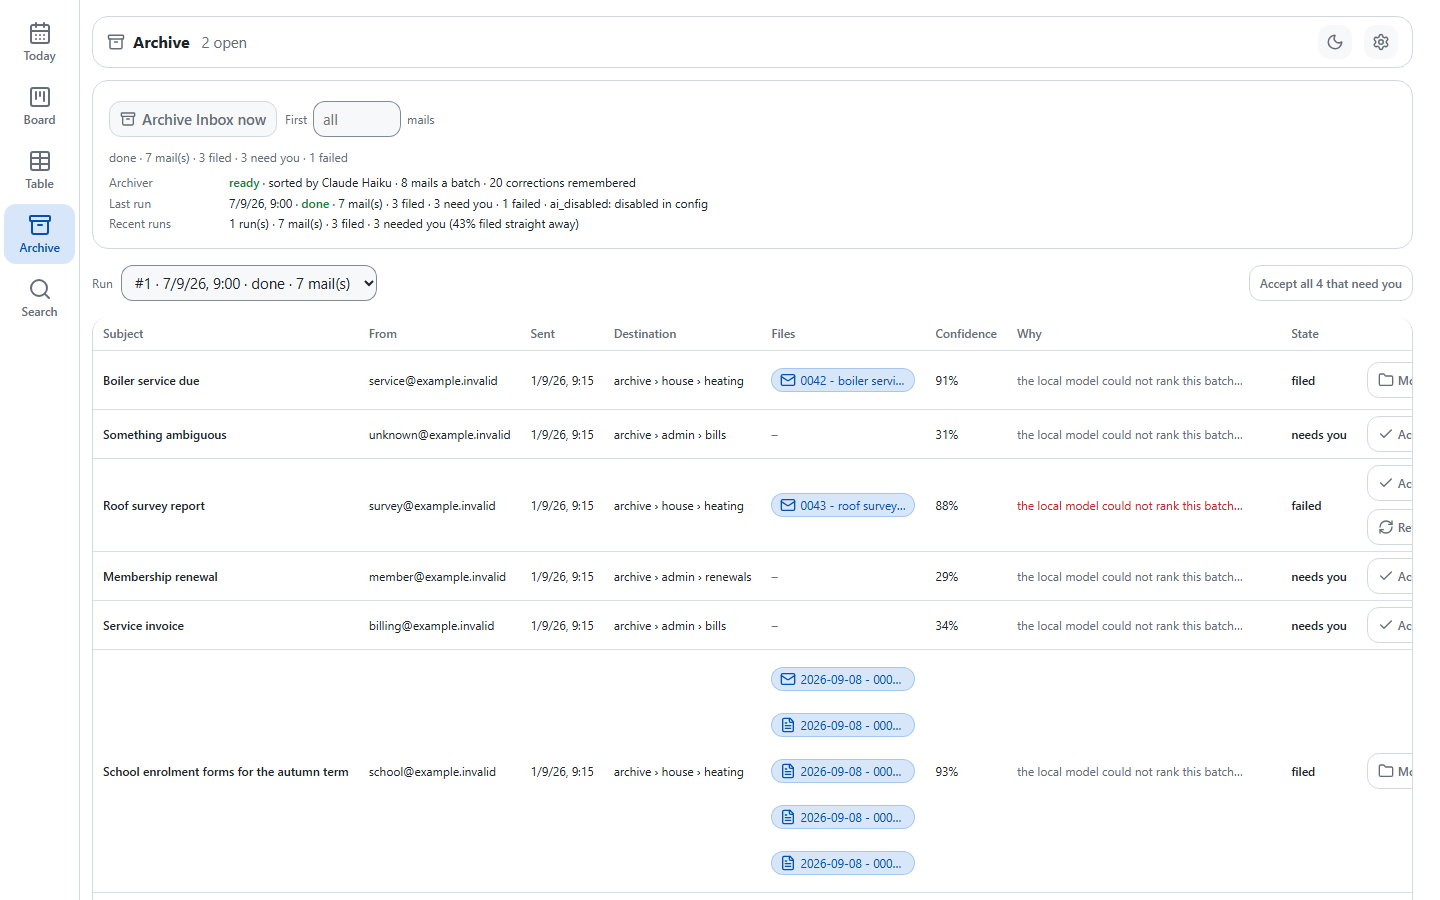
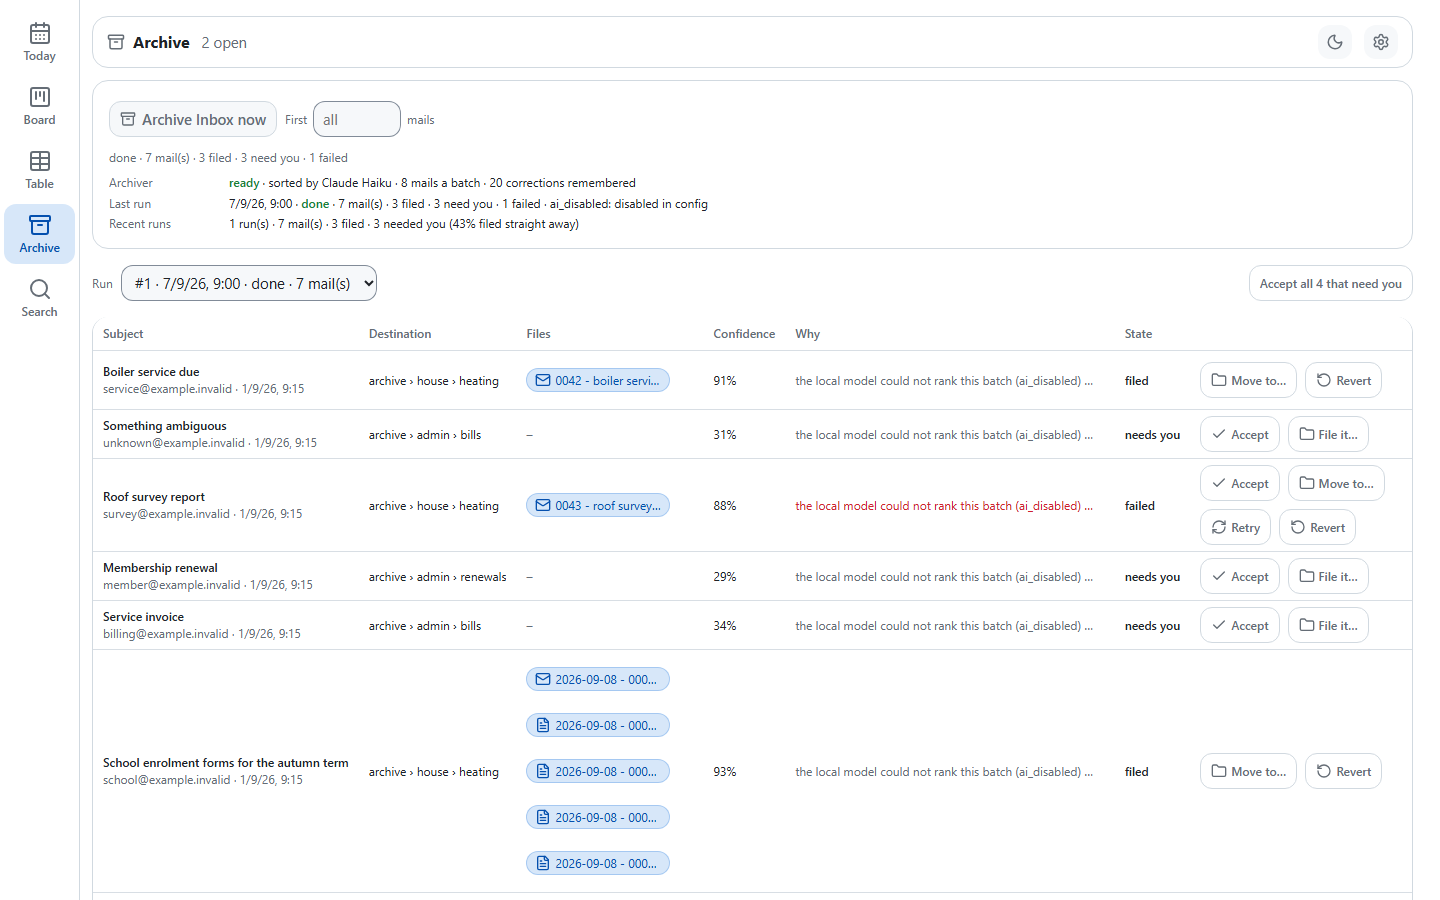
fix: fit the Archive grid to the window, its actions on screen (#339) (#348)
- nine columns ran 1480px into a 1319px scroller at 1440, so every
  row's labelled actions sat past the right edge and only their glyphs
  showed (live J-01 / J-05: icon-only, clipped row actions)
- who sent the mail and when now ride under the subject as one muted
  line, the phone card's two lines in one cell; two columns fewer and
  the grid fits
- story 24 asserts the grid does not scroll sideways at 1440 (red
  before: 1480 vs 1319)

Claude-Session: https://claude.ai/code/session_0172Apg4F9VSBxsAwLVqm2RB

diff --git a/app/webapp/static/archive.js b/app/webapp/static/archive.js
@@ -689,7 +689,9 @@ export function mountArchive(opts) {
   }
 
   // -------------------------------------------------------- the two drawings
-  const COLUMNS = ['Subject', 'From', 'Sent', 'Destination', 'Files', 'Confidence', 'Why', 'State', ''];
+  // Who sent it and when ride under the subject (#339): two columns fewer is
+  // what lets the grid fit the window, the row's actions on screen.
+  const COLUMNS = ['Subject', 'Destination', 'Files', 'Confidence', 'Why', 'State', ''];
 
   function renderTable(items) {
     const wrap = document.createElement('div');
@@ -726,9 +728,7 @@ export function mountArchive(opts) {
         onToggle: function (open) { panelRow.hidden = !open; },
       });
       tr.append(
-        cell('c-subject', subjectEl(item)),
-        cell('c-sender', textEl(item.sender || '–')),
-        cell('c-sent', textEl(item.sent_at ? fmtTsShort(item.sent_at) : '–')),
+        cell('c-subject', subjectCellEl(item)),
         cell('c-dest', destinationEl(item)),
         cell('c-files', filesEl(item, { cap: true })),
         cell('c-conf', confidenceEl(item)),
@@ -757,12 +757,17 @@ export function mountArchive(opts) {
     return td;
   }
 
-  function textEl(text) {
-    const s = document.createElement('span');
-    s.className = 'archive-text';
-    s.textContent = text;
-    s.title = text;
-    return s;
+  /** The grid's first cell: the subject, then one muted line of who · when
+   *  — the phone card's first two lines, in one cell. */
+  function subjectCellEl(item) {
+    const box = document.createElement('div');
+    box.className = 'archive-subject-cell';
+    const who = document.createElement('span');
+    who.className = 'archive-who muted';
+    who.textContent = (item.sender || '–') + ' · ' + (item.sent_at ? fmtTsShort(item.sent_at) : '–');
+    who.title = who.textContent;
+    box.append(subjectEl(item), who);
+    return box;
   }
 
   function subjectEl(item) {

diff --git a/app/webapp/static/styles.css b/app/webapp/static/styles.css
@@ -2496,7 +2496,7 @@ tr.task-row.is-selected:focus-within > td { background: var(--accent-soft); }
    without the actions — the point of the screen — sliding off the right edge;
    the full value is the title, and narrower windows scroll in `.table-scroll`. */
 .archive-subject { display: block; font-weight: 600; max-width: 16rem; overflow: hidden; text-overflow: ellipsis; white-space: nowrap; }
-.archive-text { display: block; max-width: 11rem; overflow: hidden; text-overflow: ellipsis; white-space: nowrap; }
+.archive-who { display: block; max-width: 16rem; overflow: hidden; text-overflow: ellipsis; white-space: nowrap; }
 .archive-dest { display: block; max-width: 12rem; overflow: hidden; text-overflow: ellipsis; white-space: nowrap; }
 /* One line on the grid, the whole sentence in the title: a row keeps to its
    subject line (#339), and a reason is worth reading, not worth pushing every
@@ -2670,7 +2670,7 @@ tr.task-row.is-selected:focus-within > td { background: var(--accent-soft); }
   }
 
   /* 4. Nothing in a card is allowed to set a width the pane must scroll to. */
-  .archive-subject, .archive-text, .archive-dest { max-width: 100%; }
+  .archive-subject, .archive-who, .archive-dest { max-width: 100%; }
 
   /* 7. Two lines per candidate — name and score on the first, path under it —
      and the *other folder* line as one box with the glyph inside its right

diff --git a/tests/e2e/test_story_24_archive.py b/tests/e2e/test_story_24_archive.py
@@ -434,11 +434,17 @@ def test_story_24_archive(archive_webapp: ArchiveInstance, browser: Browser, sho
     assert abs(_mid_y(subject_box) - _mid_y(files_box)) < 2, (
         f"the file-chip cell is not vertically centred on the row ({files_box} vs {subject_box})"
     )
-    for col in (".c-sent", ".c-conf", ".c-state", ".c-act"):
+    for col in (".c-dest", ".c-conf", ".c-state", ".c-act"):
         box = _box(long_row.locator(f"{col} > *"))
         assert abs(_mid_y(subject_box) - _mid_y(box)) < 2, (
             f"{col} is not vertically centred on the row ({box} vs subject {subject_box})"
         )
+
+    # #339: the grid fits the window, so every row's labelled actions are on
+    # screen rather than scrolled past the right edge with only a glyph showing
+    scroller = page.locator("#paneArchive .table-scroll")
+    fit = scroller.evaluate("el => [el.scrollWidth, el.clientWidth]")
+    assert fit[0] <= fit[1] + 1, f"the Archive grid scrolls sideways at {DESKTOP['width']}px: {fit}"
 
     stuck_row, _ = _row(page, STUCK_ID, items)
     expect(stuck_row.locator(".archive-state")).to_have_text("failed")
